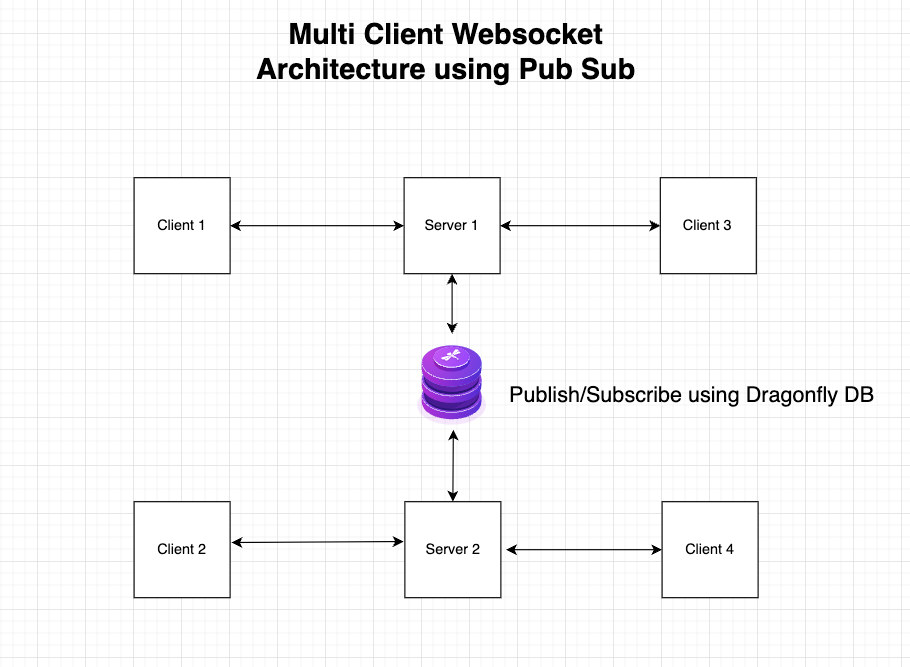
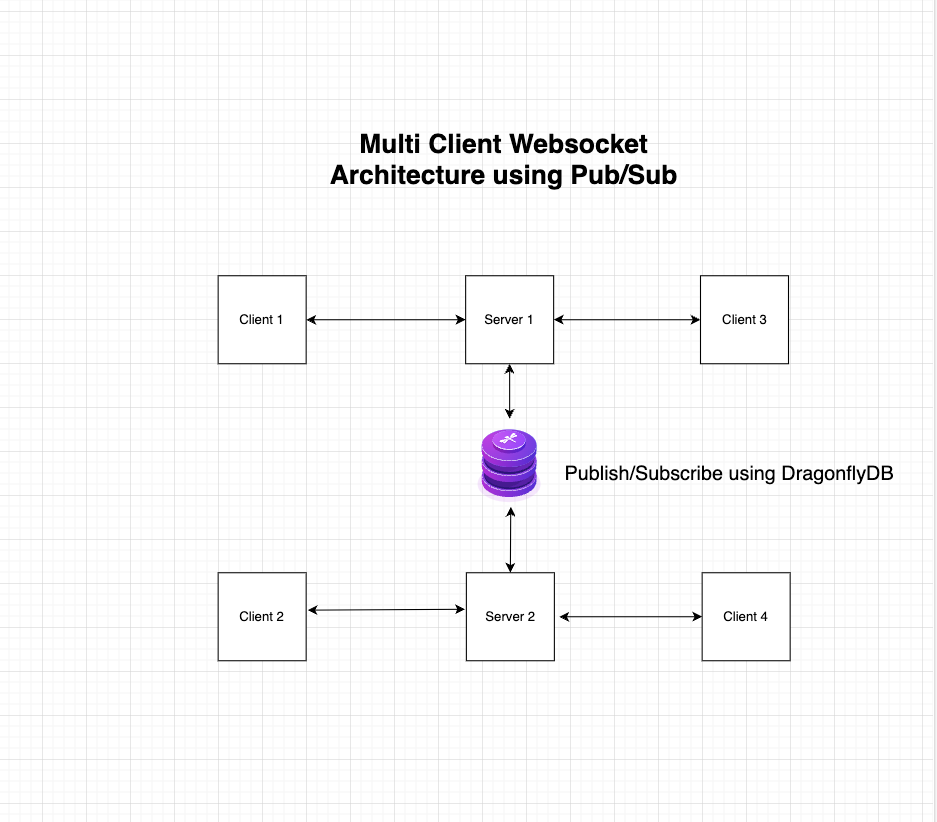
Update README.md, architecture image and remove benchmark.sh

diff --git a/README.md b/README.md
@@ -9,7 +9,7 @@ This project contains source code to implement a Real Time Chat application usin
 
 ## Application Architecture
 
-![img.png](img.png)
+![img.png](images/img.png)
 
 ## Running Application
 
